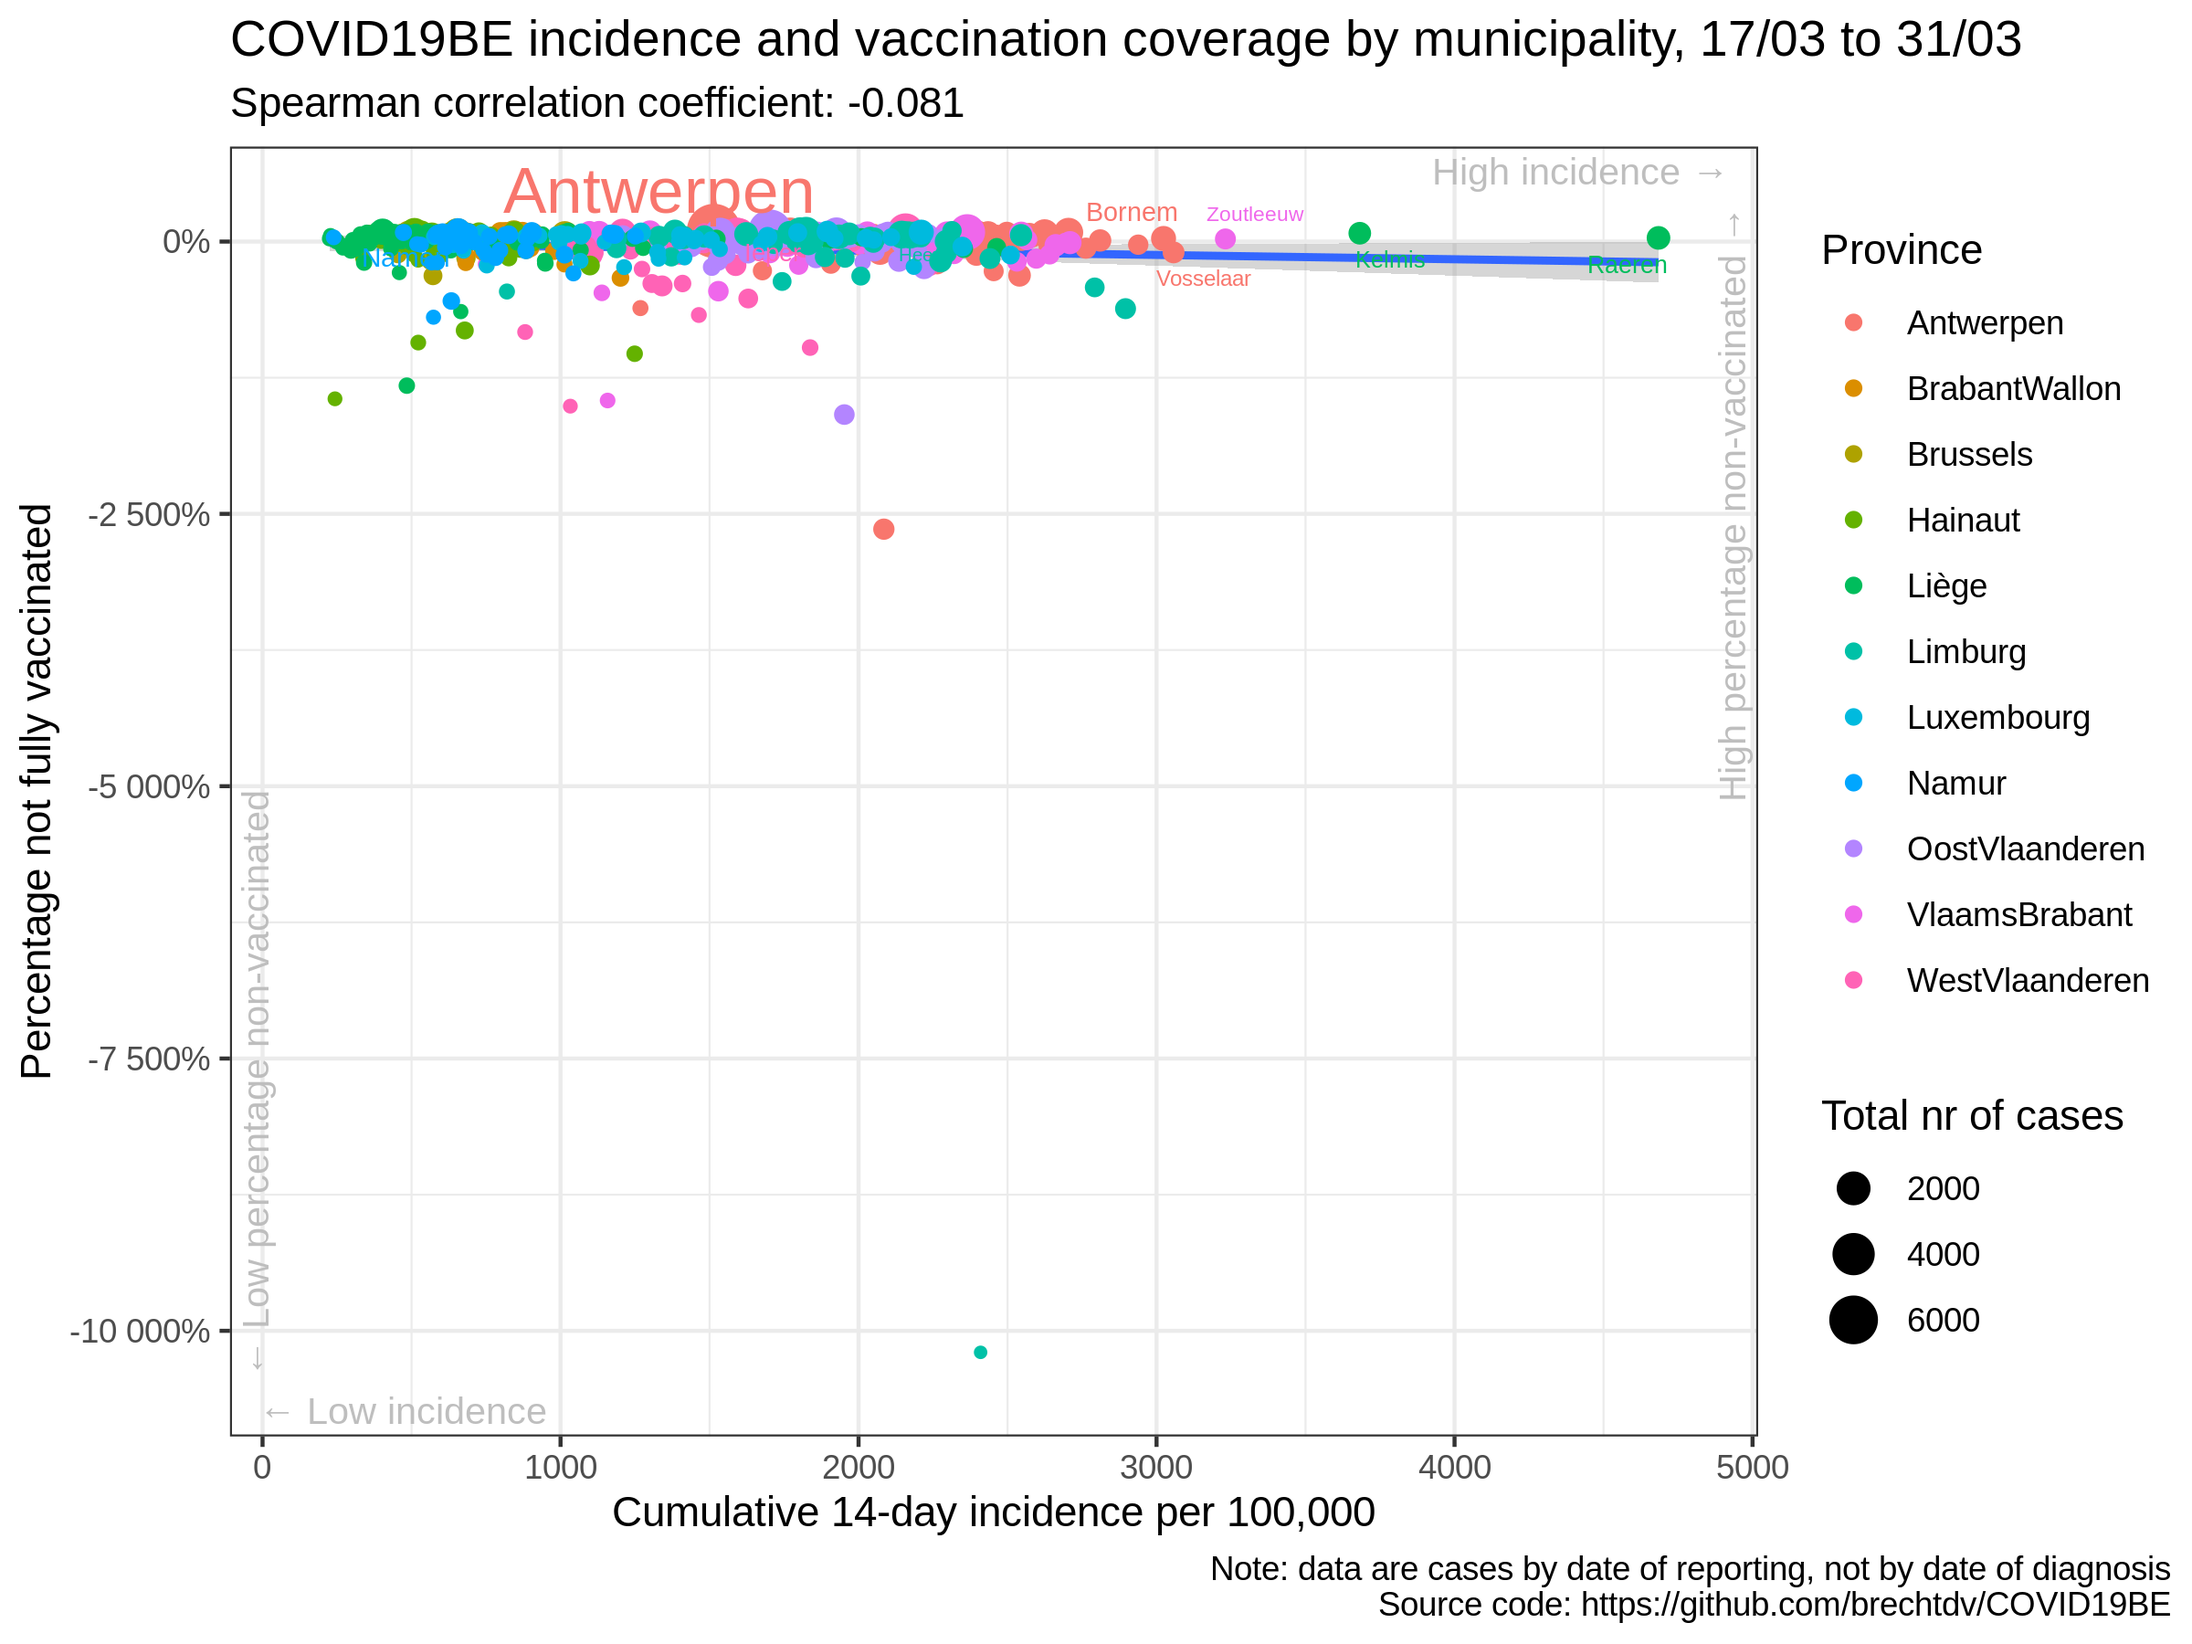
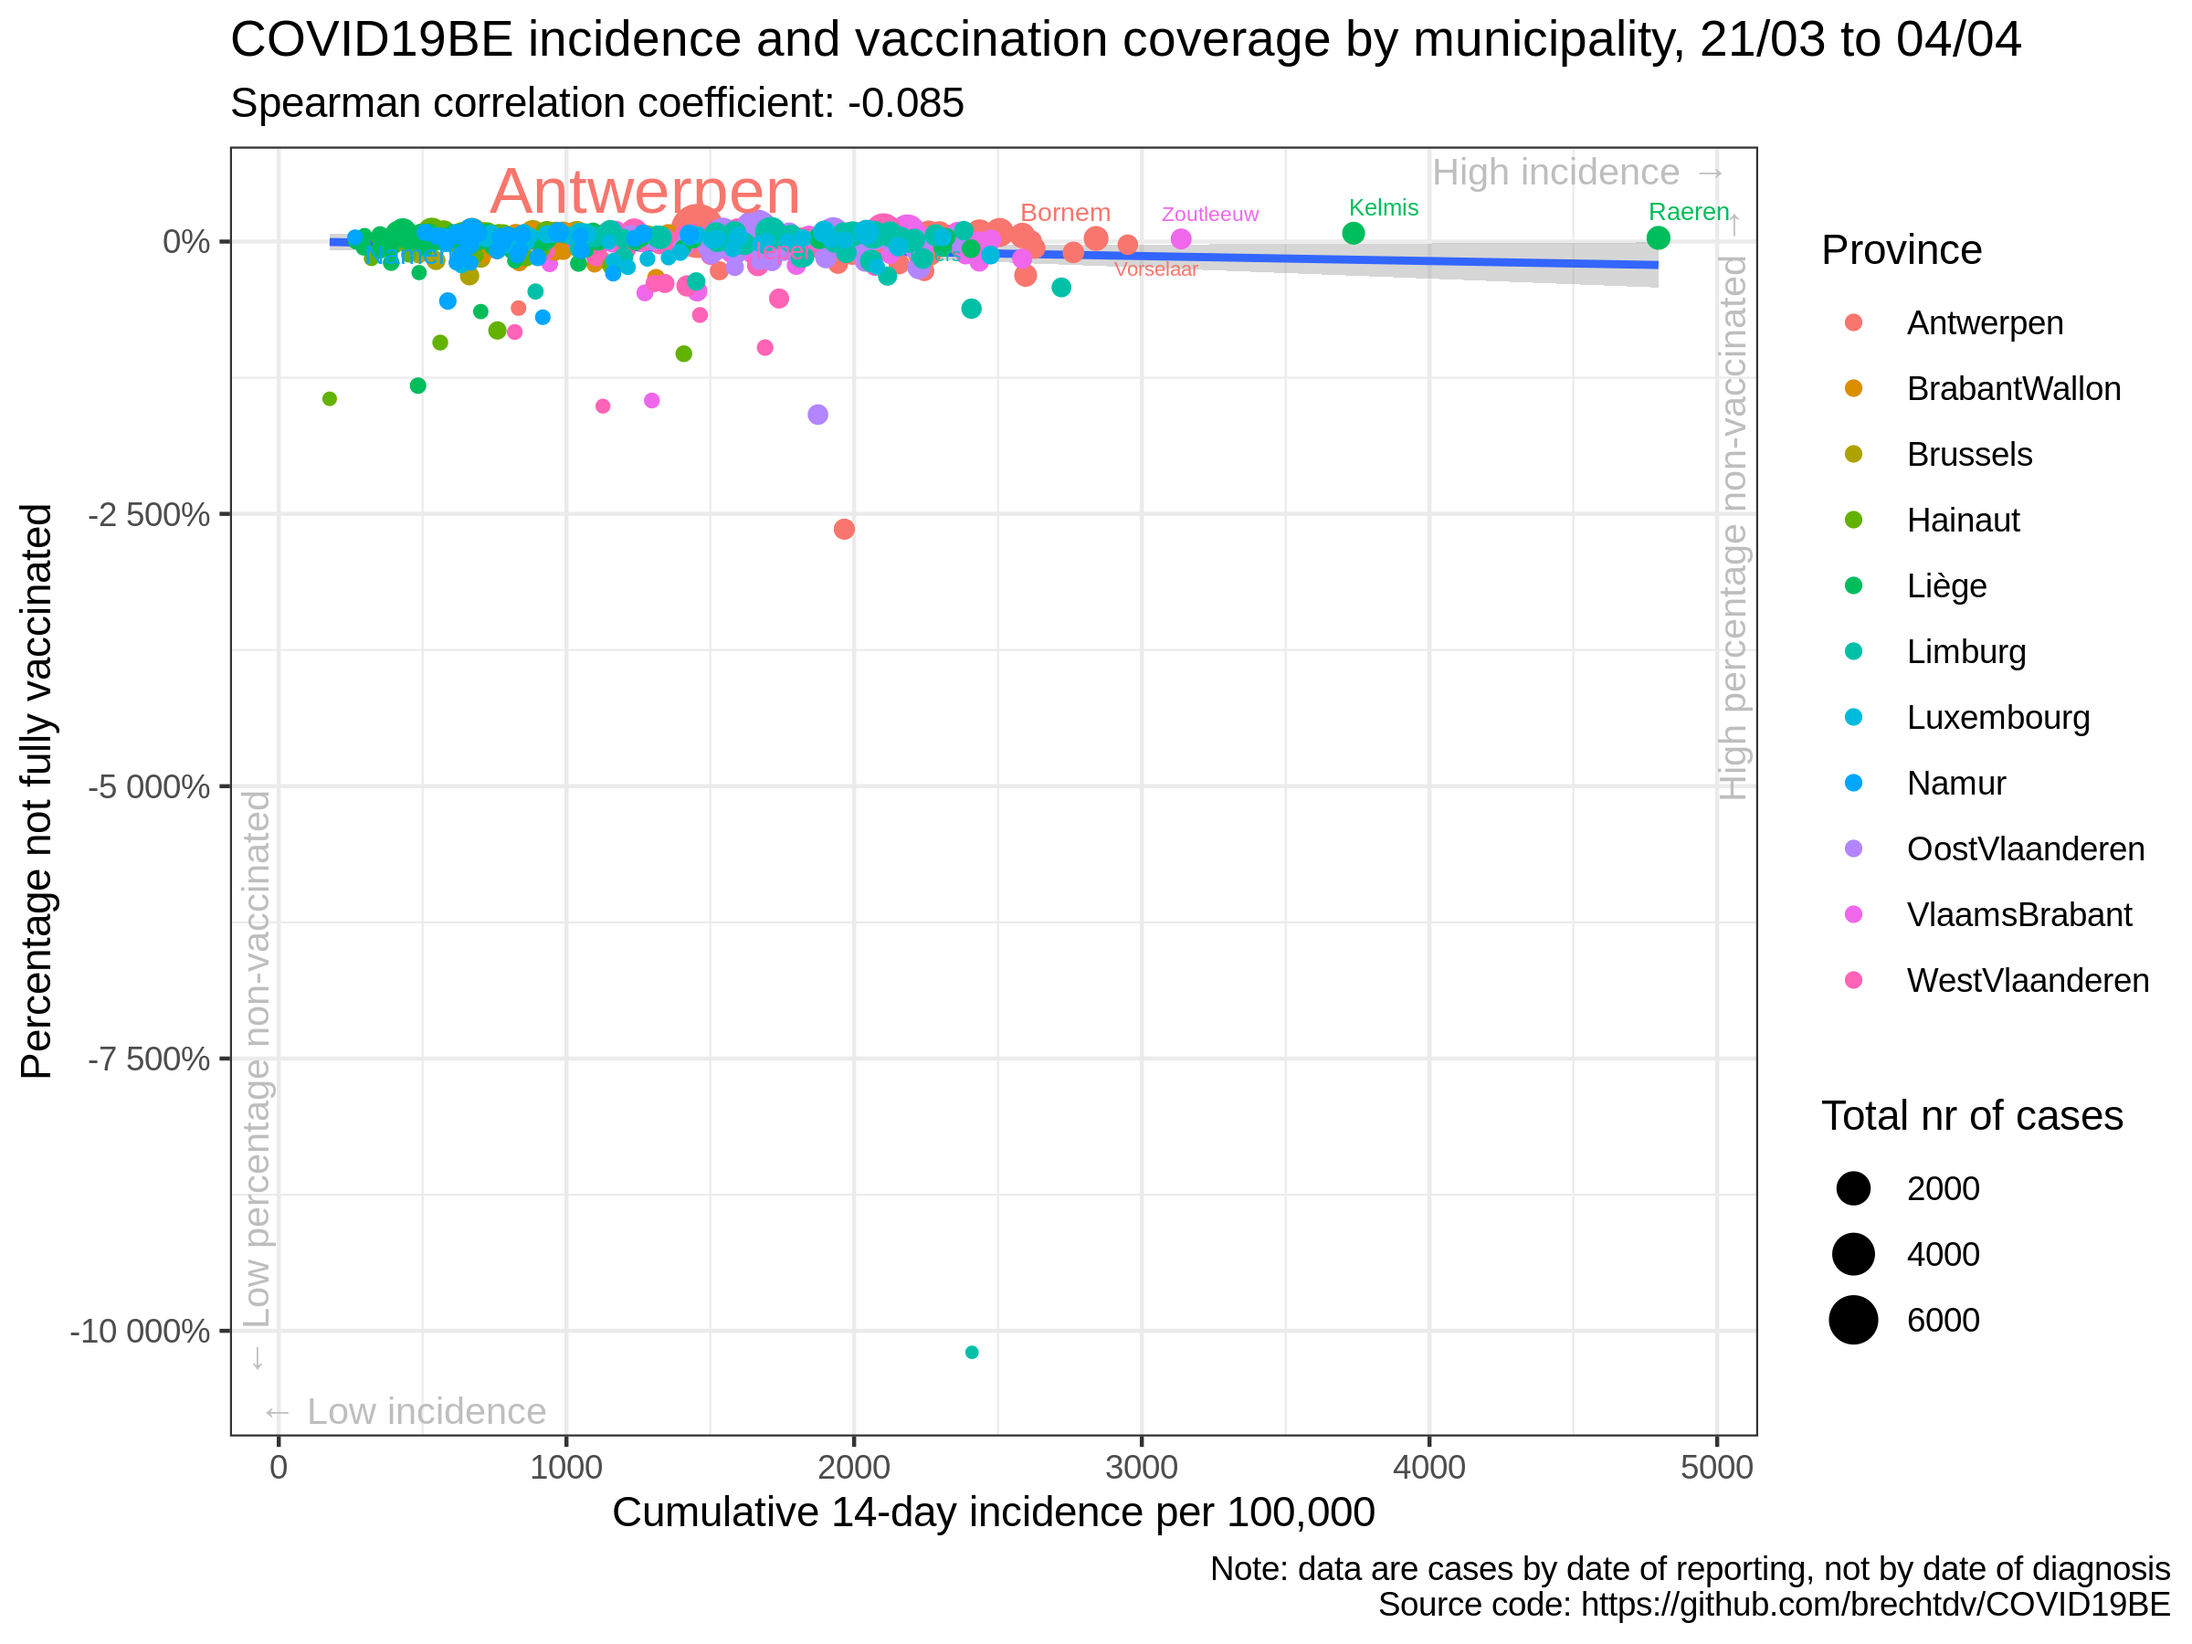
update situation

diff --git a/vaccination/README.md b/vaccination/README.md
@@ -17,35 +17,35 @@
 
 |                | estimate.rho | p.value |
 | :------------- | -----------: | ------: |
-| Antwerpen      |        0.032 |   0.794 |
-| BrabantWallon  |      \-0.223 |   0.261 |
-| Brussels       |      \-0.026 |   0.917 |
-| Hainaut        |      \-0.034 |   0.778 |
-| Liège          |      \-0.104 |   0.344 |
-| Limburg        |      \-0.131 |   0.408 |
-| Luxembourg     |      \-0.080 |   0.604 |
-| Namur          |        0.074 |   0.662 |
-| OostVlaanderen |        0.046 |   0.727 |
-| VlaamsBrabant  |      \-0.040 |   0.754 |
-| WestVlaanderen |        0.274 |   0.029 |
-| Belgium        |      \-0.081 |   0.051 |
+| Antwerpen      |      \-0.041 |   0.739 |
+| BrabantWallon  |      \-0.180 |   0.367 |
+| Brussels       |      \-0.033 |   0.894 |
+| Hainaut        |      \-0.021 |   0.861 |
+| Liège          |      \-0.105 |   0.341 |
+| Limburg        |      \-0.127 |   0.422 |
+| Luxembourg     |      \-0.079 |   0.607 |
+| Namur          |      \-0.029 |   0.865 |
+| OostVlaanderen |        0.060 |   0.648 |
+| VlaamsBrabant  |      \-0.062 |   0.625 |
+| WestVlaanderen |        0.227 |   0.071 |
+| Belgium        |      \-0.085 |   0.041 |
 
 ### Correlation cumulative incidence vs booster rate
 
 |                | estimate.rho | p.value |
 | :------------- | -----------: | ------: |
-| Antwerpen      |        0.032 |   0.791 |
-| BrabantWallon  |      \-0.213 |   0.285 |
-| Brussels       |      \-0.023 |   0.928 |
-| Hainaut        |      \-0.038 |   0.753 |
-| Liège          |      \-0.115 |   0.296 |
-| Limburg        |      \-0.131 |   0.408 |
-| Luxembourg     |      \-0.087 |   0.573 |
-| Namur          |        0.085 |   0.614 |
-| OostVlaanderen |        0.048 |   0.717 |
-| VlaamsBrabant  |      \-0.058 |   0.645 |
-| WestVlaanderen |        0.277 |   0.027 |
-| Belgium        |      \-0.137 |   0.001 |
+| Antwerpen      |      \-0.039 |   0.751 |
+| BrabantWallon  |      \-0.176 |   0.377 |
+| Brussels       |      \-0.037 |   0.883 |
+| Hainaut        |      \-0.028 |   0.820 |
+| Liège          |      \-0.118 |   0.285 |
+| Limburg        |      \-0.126 |   0.423 |
+| Luxembourg     |      \-0.090 |   0.560 |
+| Namur          |      \-0.017 |   0.919 |
+| OostVlaanderen |        0.060 |   0.651 |
+| VlaamsBrabant  |      \-0.085 |   0.501 |
+| WestVlaanderen |        0.229 |   0.069 |
+| Belgium        |      \-0.140 |   0.001 |
 
 ### Data source
 
